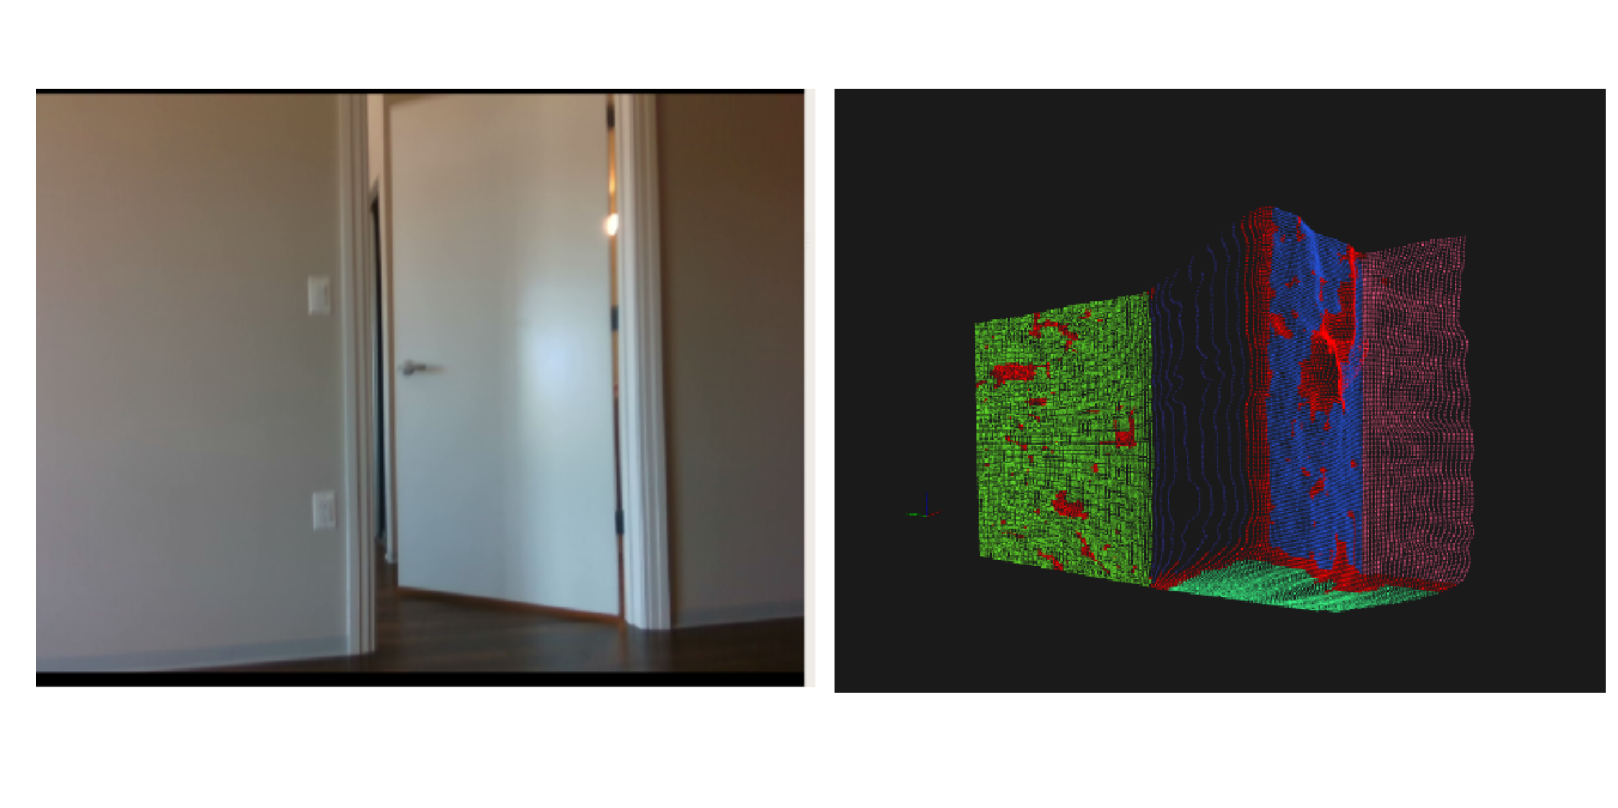
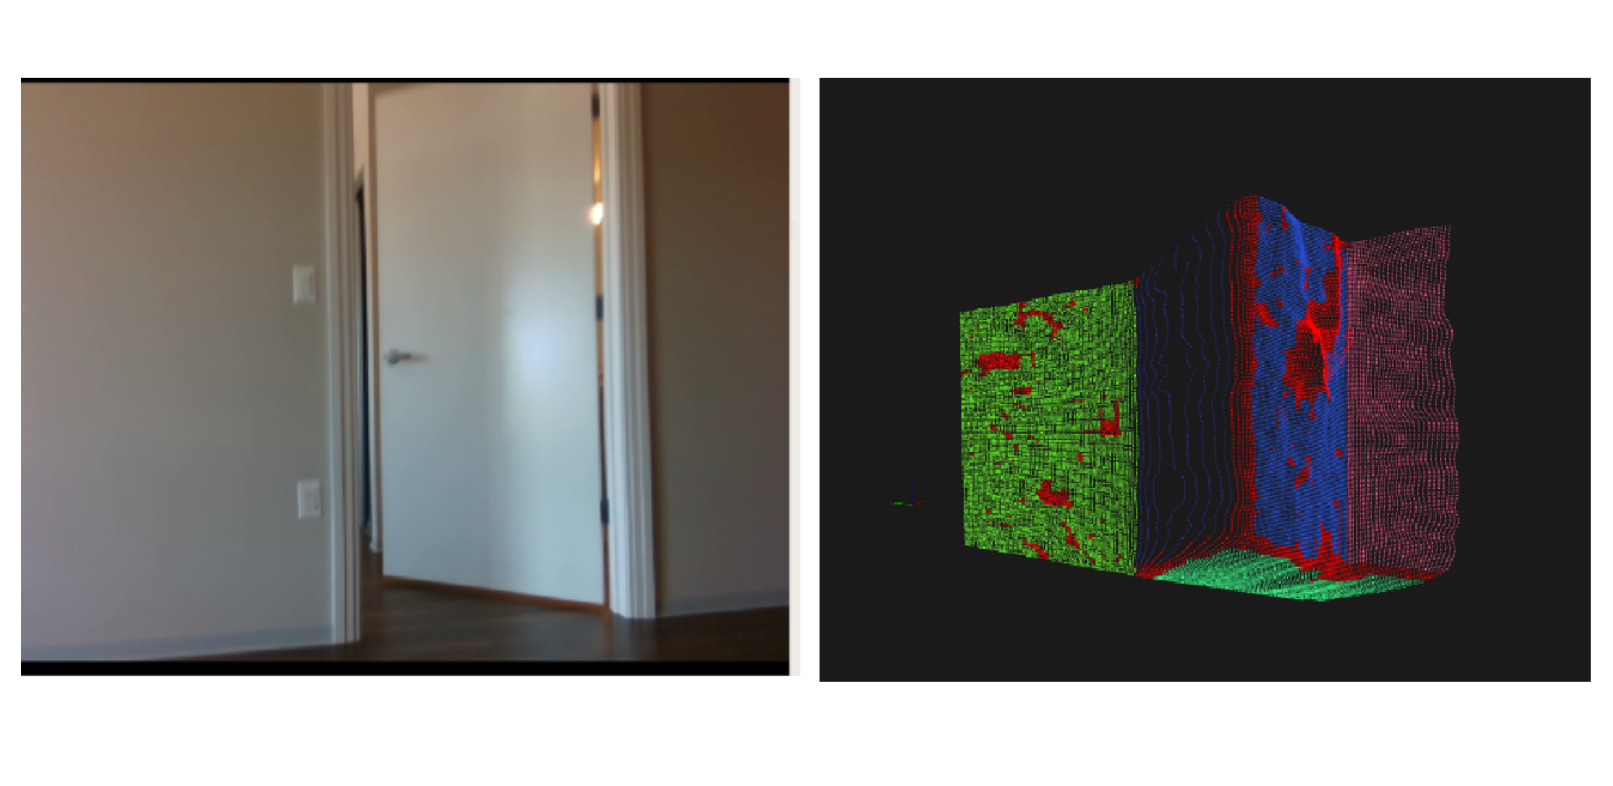
update tilte image

Changed region(s): [[0.0, 0.0916, 0.9919, 0.8855], [0.558, 0.2443, 0.9299, 0.7634]]

diff --git a/_posts/2020-06-22-Doorway_detecting_algorithm.md b/_posts/2020-06-22-Doorway_detecting_algorithm.md
@@ -4,8 +4,8 @@ title: 'Automated Doorway Detection for Assistive Wheelchairs'
 date: 2020-6-22 14:15:00
 categories: development
 type: project
-tags: ROS Gazebo Computer-Vision  Perception RGBD-Camera-Sensor C++ 
-featured_image: 'https://github.com/luxi-huang/portfolio/blob/master/img/posts/doorway_detection/title_image.png?raw=true'
+tags: ROS Perception Camera-Sensor C++ 
+featured_image: 'https://github.com/luxi-huang/portfolio/blob/master/img/posts/doorway_detection/title.png?raw=true'
 lead_text: 'Extract whisker parameters from image '
 ---
 
